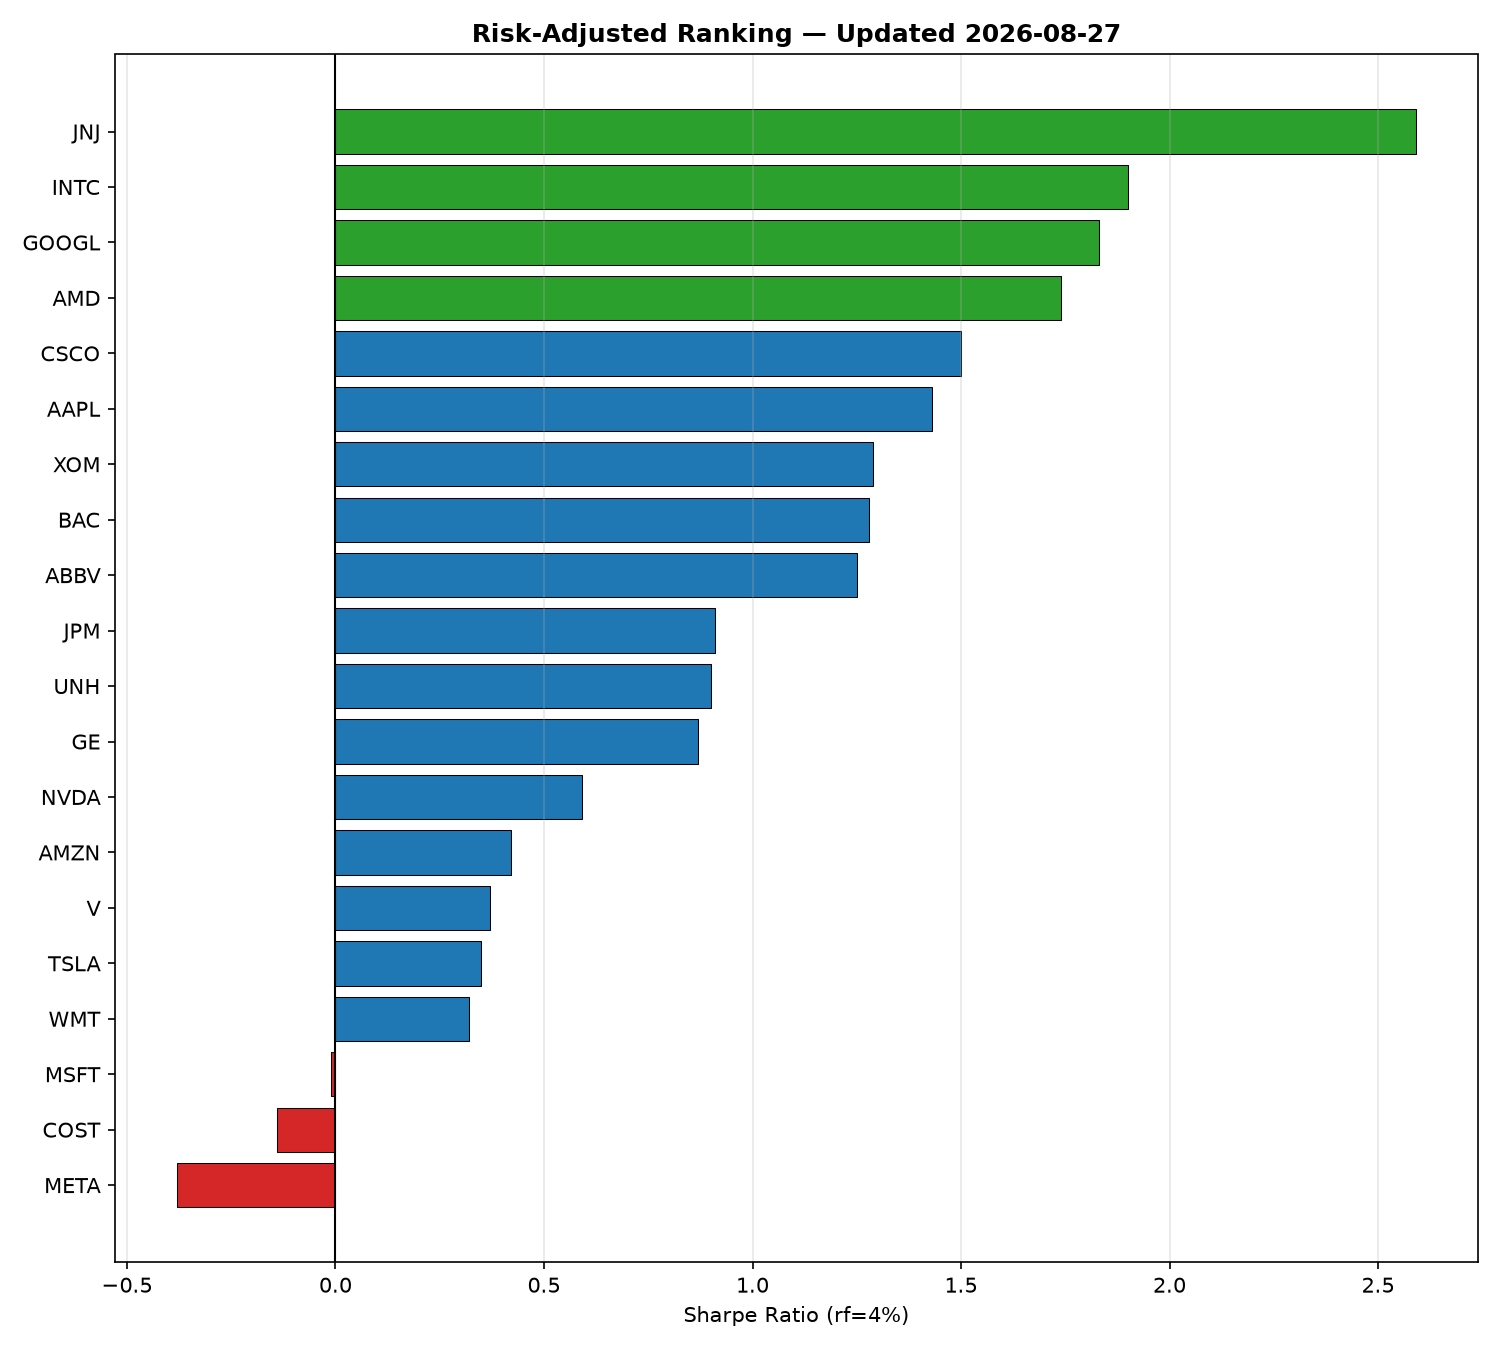
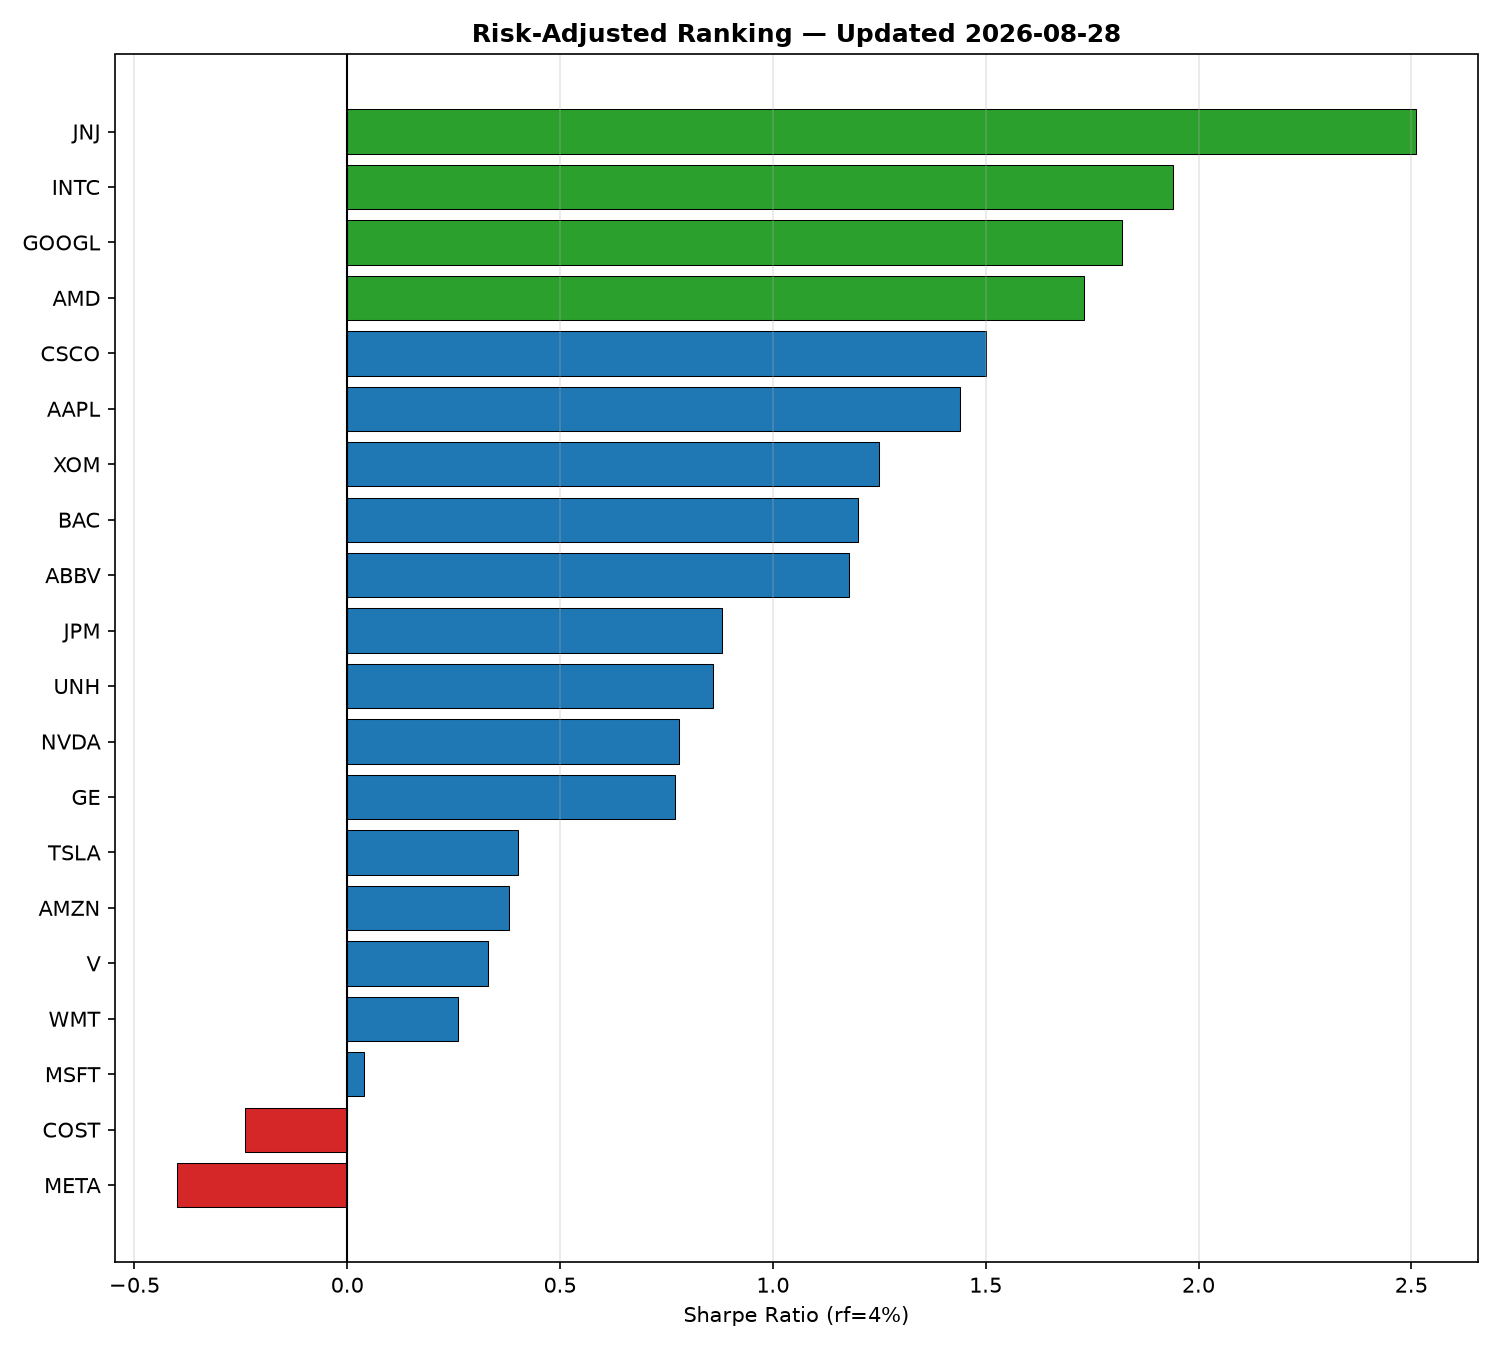
Automated daily update: prices, metrics, and charts

diff --git a/SNAPSHOT.md b/SNAPSHOT.md
@@ -1,9 +1,9 @@
-# Daily Risk Snapshot — 2026-08-26
+# Daily Risk Snapshot — 2026-08-27
 
-**Best mover:** GE (+1.39%)
-**Worst mover:** NVDA (-1.59%)
-**Top risk-adjusted performer (trailing window):** JNJ (Sharpe 2.59)
+**Best mover:** NVDA (+8.74%)
+**Worst mover:** GE (-3.29%)
+**Top risk-adjusted performer (trailing window):** JNJ (Sharpe 2.51)
 
-**No new anomaly flags today.**
+**⚠ Newly anomalous today:** NVDA — return moved more than 2 std. deviations from its own 20-day trailing mean.
 
 _Auto-generated by `scripts/daily_snapshot.py` via GitHub Actions._
